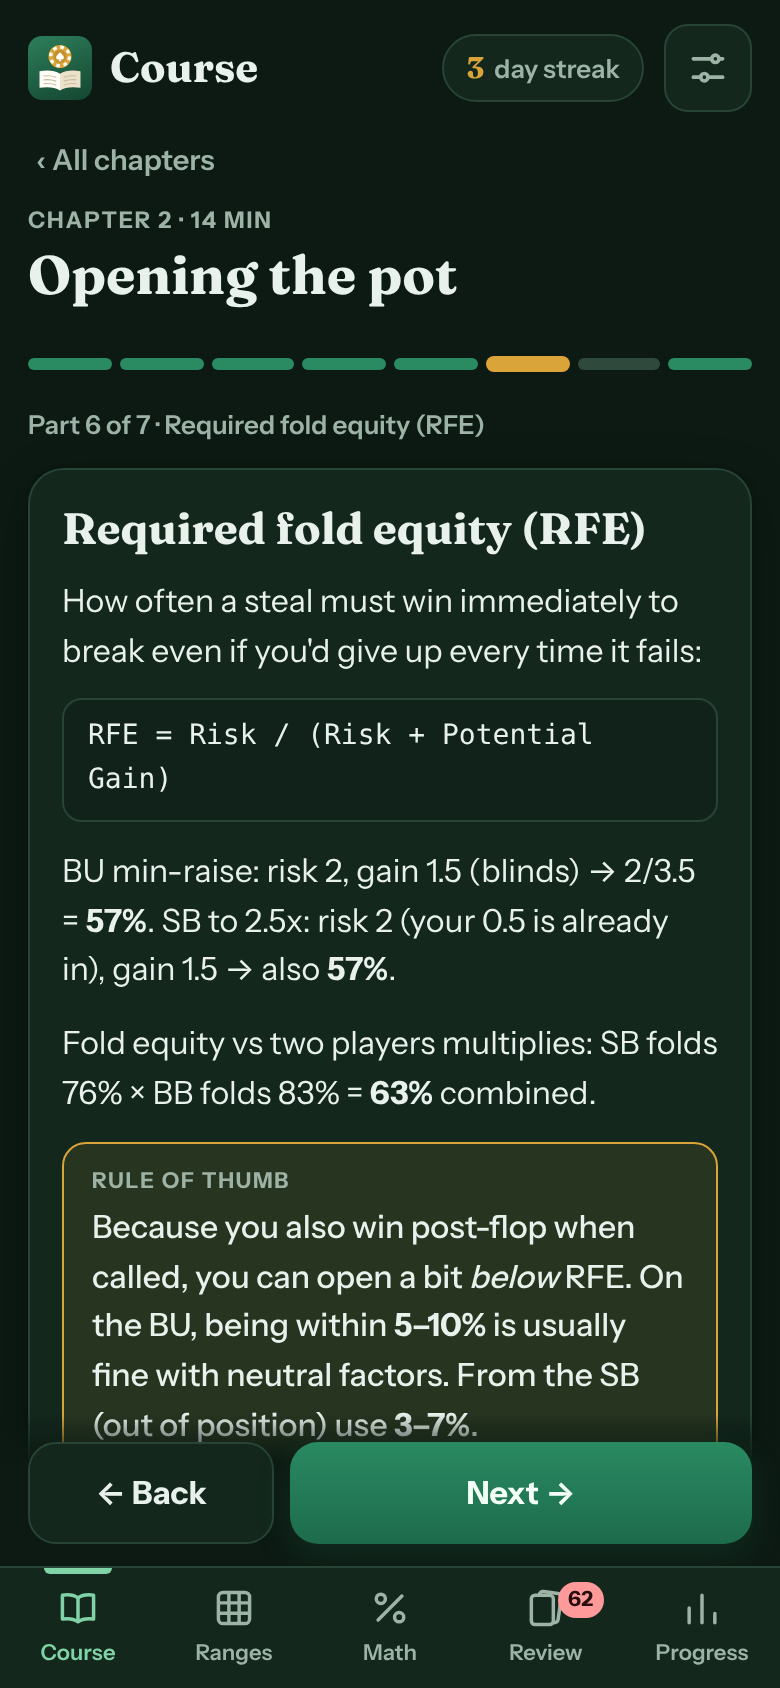
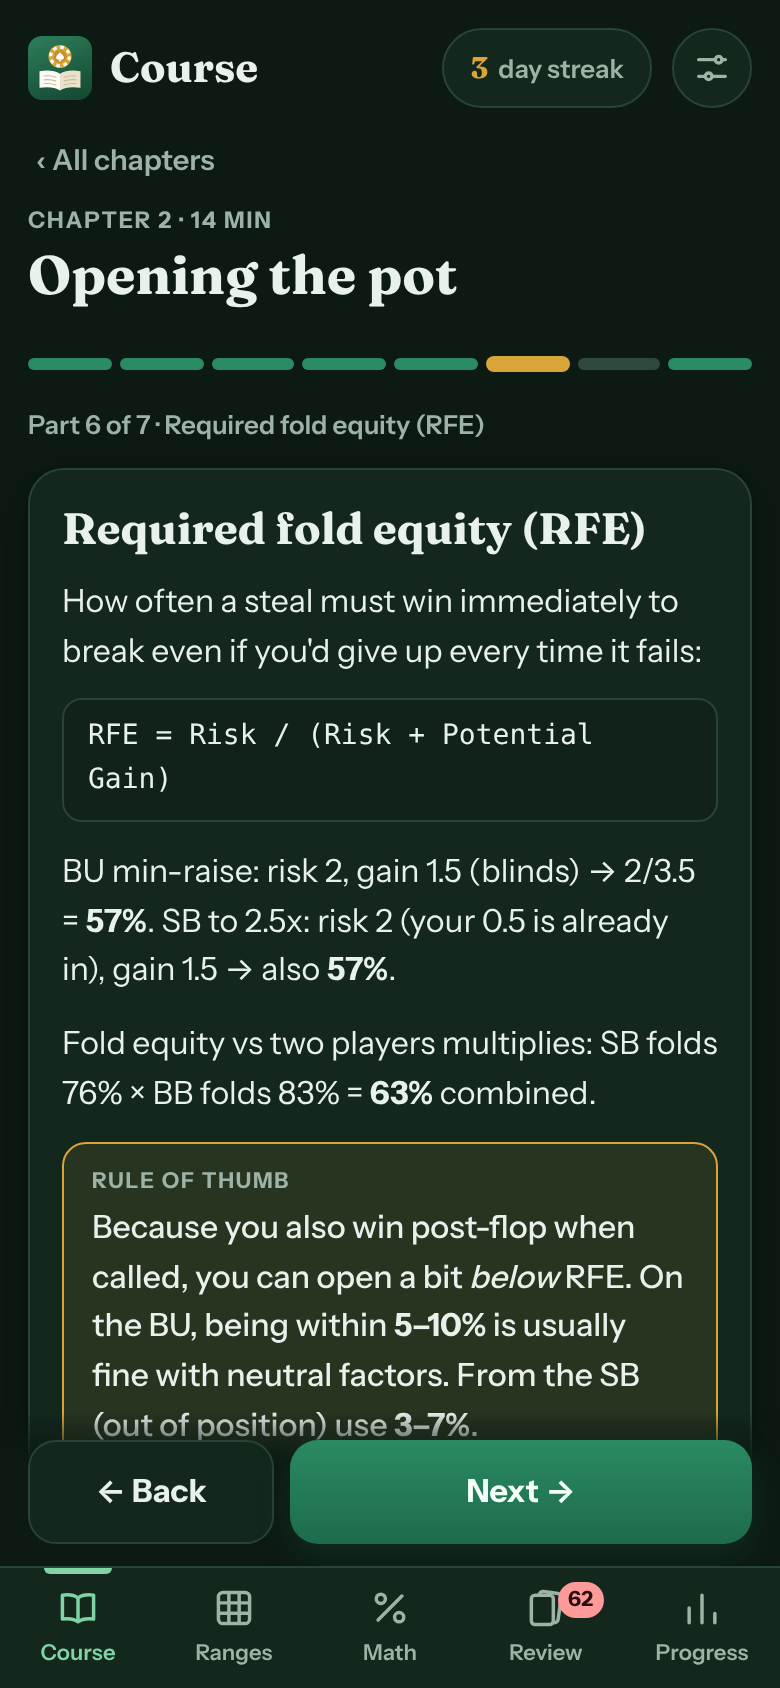
Even out button sizes (v2.0.1)
Two sizes everywhere: 52px for main actions, 44px for secondary ones
(was seven heights between 36 and 60). Call/Fold labels are centred with
the key number pinned left, the header pill and settings button match,
settings and tool buttons share one width, the home page has four equal
tiles instead of three tiles over two odd buttons, and on a wide screen
the action buttons keep the phone proportions.

Claude-Session: https://claude.ai/code/session_01WSPbWCX6AwDLBdZwwdxWUU

diff --git a/index.html b/index.html
@@ -75,10 +75,12 @@ button{font:inherit;color:inherit;cursor:pointer}
 .brand{display:flex;align-items:center;gap:9px;flex:1;min-width:0;text-decoration:none;color:inherit}
 .logo{flex:none;width:32px;height:32px;display:block}
 .top h1{font-size:21px;white-space:nowrap;overflow:hidden;text-overflow:ellipsis;min-width:0}
-.pill{display:inline-flex;align-items:center;gap:5px;font-size:13px;font-weight:600;color:var(--muted);background:var(--surface);border:1px solid var(--line);border-radius:999px;padding:4px 11px;white-space:nowrap;text-decoration:none}
+.pill{display:inline-flex;align-items:center;gap:5px;min-height:40px;font-size:13px;font-weight:600;color:var(--muted);background:var(--surface);border:1px solid var(--line);border-radius:999px;padding:0 13px;white-space:nowrap;text-decoration:none}
 .pill b{font-family:var(--serif);font-size:15px;color:var(--ink)}
 .pill.hot b{color:var(--gold)}
-.iconbtn{flex:none;width:44px;height:44px;display:grid;place-items:center;border-radius:12px;border:1px solid var(--line);background:var(--surface);color:var(--muted)}
+.iconbtn{flex:none;position:relative;width:40px;height:40px;display:grid;place-items:center;border-radius:999px;border:1px solid var(--line);background:var(--surface);color:var(--muted)}
+.iconbtn::after{content:"";position:absolute;inset:-2px}
+.iconbtn svg{width:20px;height:20px}
 .iconbtn[aria-current="page"]{background:var(--felt);border-color:var(--felt);color:var(--felt-ink)}
 
 /* Bottom navigation (phone), left rail (wide screen) */
@@ -98,14 +100,13 @@ button{font:inherit;color:inherit;cursor:pointer}
 .sec span{text-transform:none;letter-spacing:0;font-weight:500}
 .box{background:var(--surface);border:1px solid var(--line);border-radius:18px;padding:16px;box-shadow:var(--shadow)}
 .eyebrow{font-size:11.5px;font-weight:700;letter-spacing:.08em;text-transform:uppercase;color:var(--muted)}
-.btn{display:inline-flex;align-items:center;justify-content:center;gap:8px;font-weight:700;font-size:16px;padding:12px 18px;min-height:50px;border-radius:14px;border:0;
+.btn{display:inline-flex;align-items:center;justify-content:center;gap:8px;font-weight:700;font-size:16px;line-height:1.2;padding:0 20px;min-height:52px;border-radius:14px;border:0;
   background:linear-gradient(180deg,var(--felt-2),var(--felt));color:var(--felt-ink);box-shadow:0 6px 16px rgba(31,96,69,.25);text-decoration:none}
 .btn.alt{background:var(--surface);color:var(--ink);border:1.5px solid var(--line);box-shadow:none}
 .btn.gold{background:var(--gold);color:var(--gold-ink);box-shadow:0 6px 16px rgba(217,165,58,.25)}
 .btn.wide{width:100%}
-.btn.sm{min-height:44px;font-size:14.5px;padding:8px 14px;border-radius:12px}
+.btn.sm{min-height:44px;min-width:96px;font-size:14.5px;font-weight:600;padding:0 16px;border-radius:12px}
 .btn:disabled{opacity:.45;cursor:default;box-shadow:none}
-.btn kbd,.opt kbd{font-family:var(--sans);font-size:11px;font-weight:700;opacity:.7;border:1px solid currentColor;border-radius:5px;padding:0 5px;line-height:16px}
 .row{display:flex;gap:10px;flex-wrap:wrap;align-items:center}
 .row>.btn{flex:1}
 .bar{height:8px;background:var(--track);border-radius:8px;overflow:hidden}
@@ -120,12 +121,12 @@ button{font:inherit;color:inherit;cursor:pointer}
 .actions .btn.alt{flex:0 0 34%}
 
 /* Segmented controls and chip rows */
-.seg{display:flex;gap:4px;background:var(--surface);border:1px solid var(--line);padding:4px;border-radius:14px}
-.seg button{flex:1;min-height:40px;border:0;background:none;border-radius:10px;font-size:14px;font-weight:600;color:var(--muted);padding:0 8px;white-space:nowrap}
+.seg{display:flex;gap:4px;background:var(--surface);border:1px solid var(--line);padding:3px;border-radius:999px}
+.seg button{flex:1;min-height:38px;border:0;background:none;border-radius:999px;font-size:14px;font-weight:600;color:var(--muted);padding:0 8px;white-space:nowrap}
 .seg button[aria-pressed="true"]{background:var(--felt);color:var(--felt-ink);box-shadow:0 1px 3px rgba(0,0,0,.15)}
 .chips{display:flex;gap:6px;overflow-x:auto;flex-wrap:nowrap;padding:8px 2px 4px;margin:0 -14px;padding-left:14px;padding-right:14px;scrollbar-width:none;scroll-snap-type:x proximity;scroll-padding-inline:14px}
 .chips::-webkit-scrollbar{display:none}
-.chip{flex:none;min-height:40px;padding:0 14px;border-radius:999px;border:1.5px solid var(--line);background:var(--surface);color:var(--ink);font-size:14px;font-weight:500;white-space:nowrap;scroll-snap-align:start}
+.chip{flex:none;min-height:44px;padding:0 16px;border-radius:999px;border:1.5px solid var(--line);background:var(--surface);color:var(--ink);font-size:14px;font-weight:500;white-space:nowrap;scroll-snap-align:start}
 .chip[aria-pressed="true"]{background:var(--felt);border-color:var(--felt);color:var(--felt-ink);font-weight:600}
 .chip small{opacity:.7;margin-left:4px}
 
@@ -140,8 +141,8 @@ button{font:inherit;color:inherit;cursor:pointer}
 .welcome .bar{background:rgba(0,0,0,.25);margin:14px 0 6px} .welcome .bar i{background:var(--gold)}
 .welcome .meta{display:flex;justify-content:space-between;font-size:13px;color:rgba(238,248,242,.8)}
 .welcome .btn{margin-top:14px;background:var(--card);color:#12241b;box-shadow:0 6px 16px rgba(0,0,0,.25)}
-.tiles{display:grid;grid-template-columns:repeat(3,1fr);gap:8px;margin-top:10px}
-.tile{display:flex;flex-direction:column;align-items:flex-start;gap:2px;text-align:left;padding:12px;min-height:84px;border-radius:16px;background:var(--surface);border:1px solid var(--line);color:var(--ink);text-decoration:none}
+.tiles{display:grid;grid-template-columns:1fr 1fr;gap:8px;margin-top:10px}
+.tile{display:flex;flex-direction:column;align-items:flex-start;gap:2px;text-align:left;padding:12px;min-height:80px;border-radius:16px;background:var(--surface);border:1px solid var(--line);color:var(--ink);text-decoration:none}
 .tile b{font-family:var(--serif);font-size:24px;line-height:1.1;font-variant-numeric:tabular-nums}
 .tile span{font-size:12.5px;color:var(--muted);line-height:1.25}
 .tile.alert b{color:var(--bad)}
@@ -205,7 +206,7 @@ select,input[type=number]{background:var(--surface);border:1.5px solid var(--lin
 .verdict.good{background:var(--good-bg);color:var(--good);border-color:var(--good)} .verdict.bad{background:var(--bad-bg);color:var(--bad);border-color:var(--bad)} .verdict.warn{background:var(--warn-bg);color:var(--warn);border-color:var(--warn)}
 .flow{display:flex;flex-direction:column;gap:10px}
 .flow .q{font-weight:600}
-.tool .btn{min-height:44px;font-size:15px;padding:8px 16px;background:var(--surface);color:var(--ink);border:1.5px solid var(--line);box-shadow:none}
+.tool .btn{min-height:44px;min-width:96px;font-size:14.5px;font-weight:600;padding:0 16px;border-radius:12px;background:var(--surface);color:var(--ink);border:1.5px solid var(--line);box-shadow:none}
 
 /* Quiz and drill questions */
 .qcard{margin-top:12px}
@@ -277,7 +278,8 @@ select,input[type=number]{background:var(--surface);border:1.5px solid var(--lin
 .badge{font-family:var(--serif);font-weight:700;font-size:16px;color:var(--gold);border:1.5px solid rgba(217,165,58,.6);border-radius:8px;padding:1px 8px;margin-left:4px}
 .sinfo{text-align:center;font-size:14.5px;color:var(--muted);margin-top:10px;line-height:1.4}
 .acts{display:grid;grid-template-columns:1fr 1fr;gap:8px;margin-top:12px}
-.acts .opt{justify-content:center;font-weight:700;font-size:17px;min-height:56px}
+.acts .opt{position:relative;justify-content:center;font-weight:700;font-size:17px;min-height:52px;padding:0 44px}
+.acts .opt .k{position:absolute;left:12px;top:50%;margin-top:-13px}
 .acts .opt.go{background:linear-gradient(180deg,var(--felt-2),var(--felt));border-color:var(--felt);color:var(--felt-ink)}
 .acts .opt.go .k{background:transparent;border-color:rgba(255,255,255,.5);color:var(--felt-ink)}
 .acts .opt.go.wrong{background:var(--bad-bg);border-color:var(--bad);color:var(--bad)}
@@ -298,7 +300,7 @@ select,input[type=number]{background:var(--surface);border:1.5px solid var(--lin
 .chartbox{margin-top:12px}
 .chartbox .ch{display:flex;align-items:center;justify-content:space-between;gap:8px;margin-bottom:10px}
 .chartbox .ch b{font-family:var(--serif);font-size:17px}
-.peek{min-height:44px;padding:0 12px;border-radius:12px;border:1.5px solid var(--line);background:var(--surface-2);color:var(--ink);font-size:14px;font-weight:600}
+.peek{min-height:44px;min-width:96px;padding:0 16px;border-radius:12px;border:1.5px solid var(--line);background:var(--surface-2);color:var(--ink);font-size:14px;font-weight:600}
 .hidden-chart{padding:30px 10px;text-align:center;color:var(--muted);font-size:14px;border:1.5px dashed var(--line);border-radius:12px}
 .note{font-size:13.5px;color:var(--muted);margin-top:10px;line-height:1.45}
 
@@ -320,7 +322,7 @@ select,input[type=number]{background:var(--surface);border:1.5px solid var(--lin
 .face.back .eyebrow{color:#53665b}
 .face.back p{font-size:17px;line-height:1.5;max-width:46ch}
 .grades{display:grid;grid-template-columns:repeat(4,1fr);gap:6px;margin-top:12px}
-.grades button{min-height:60px;border-radius:14px;border:1.5px solid var(--line);background:var(--surface);color:var(--ink);font-weight:700;font-size:15px;display:flex;flex-direction:column;align-items:center;justify-content:center;line-height:1.2}
+.grades button{min-height:52px;border-radius:14px;border:1.5px solid var(--line);background:var(--surface);color:var(--ink);font-weight:700;font-size:15px;display:flex;flex-direction:column;align-items:center;justify-content:center;line-height:1.2}
 .grades button small{font-weight:500;font-size:12px;color:var(--muted)}
 .grades button.g0{border-color:var(--bad);color:var(--bad)}
 .grades button.g2{background:linear-gradient(180deg,var(--felt-2),var(--felt));border-color:var(--felt);color:var(--felt-ink)} .grades button.g2 small{color:rgba(255,255,255,.75)}
@@ -356,7 +358,7 @@ select,input[type=number]{background:var(--surface);border:1.5px solid var(--lin
 .srow b{display:block;font-weight:600;font-size:15px}
 .srow small{display:block;font-size:13px;color:var(--muted);line-height:1.35}
 .srow .seg{flex:none}
-.srow .seg button{min-height:36px;font-size:13px;padding:0 10px}
+.srow .seg button{min-height:38px;font-size:13px;padding:0 12px}
 .danger{color:var(--bad)!important;border-color:var(--bad)!important}
 .ver{font-size:13px;color:var(--muted);margin-top:18px;text-align:center;line-height:1.6}
 
@@ -385,8 +387,6 @@ select,input[type=number]{background:var(--surface);border:1.5px solid var(--lin
   .nav button[aria-current="page"]::before{top:24%;bottom:24%;left:0;right:auto;width:3px;height:auto;border-radius:0 3px 3px 0}
   .due{position:static;margin-left:auto}
   .actions{position:static;margin:16px 0 0;padding:0;background:none}
-  .actions .btn{flex:0 1 auto;min-width:180px}
-  .actions .btn.alt{flex:0 0 auto}
   .home-grid{display:grid;grid-template-columns:minmax(0,1.25fr) minmax(0,1fr);gap:18px;align-items:start}
   .home-grid .tiles{margin-top:0}
   .chapters{display:grid;grid-template-columns:1fr 1fr;column-gap:10px}
@@ -870,7 +870,7 @@ const MATH={
     '6':'Choose 2 suits from 4.','4':'One per suit.','12':'16 total minus 4 suited.','16':'4 × 4.','3':'Choose 2 of the 3 remaining.','1':'Only one combination of the last two cards.','9':'3 remaining of one rank × 3 of the other.','1326':'52 × 51 / 2.','0':'You hold the card they would need.'}[c[1]]+(c[0].includes('AK combos')&&c[1]==='12'?' 3 aces × 4 kings.':'')};}},
 };
 /* ===================== UI (everything below needs a browser) ===================== */
-var BUILD={v:"2.0.0",at:"2026-11-19T10:15Z"};
+var BUILD={v:"2.0.1",at:"2026-11-19T10:21Z"};
 const $=(s,r=document)=>r.querySelector(s);
 const $$=(s,r=document)=>[...r.querySelectorAll(s)];
 
@@ -937,7 +937,7 @@ function lessonDone(id){return !!S.lessons[id];}
 function drillAcc(){let c=0,n=0;Object.values(S.drills).forEach(x=>{c+=x.c;n+=x.n;});return {c,n};}
 function renderHome(){
   const done=LESSONS.filter(l=>lessonDone(l.id)).length,next=LESSONS.find(l=>!lessonDone(l.id)),nl=next||LESSONS[0];
-  const due=dueCards().length,fresh=!Object.keys(S.cards).length,acc=drillAcc(),streak=studyStreak();
+  const mAcc=Object.values(S.math).reduce((a,x)=>({c:a.c+x.c,n:a.n+x.n}),{c:0,n:0}),due=dueCards().length,fresh=!Object.keys(S.cards).length,acc=drillAcc(),streak=studyStreak();
   $('#v-home').innerHTML=`<div class="home-grid">
     <div class="welcome">
       <div class="eyebrow">${next?(done?'Up next':'Start here'):'Course complete'}</div>
@@ -951,9 +951,9 @@ function renderHome(){
       <div class="tiles">
         <a class="tile${due&&!fresh?' alert':''}" href="#review"><b>${due}</b><span>${fresh?'new flashcards':(due===1?'card':'cards')+' due today'}</span></a>
         <a class="tile" href="#ranges"><b>${acc.n?pct(acc.c/acc.n):'–'}</b><span>range accuracy</span></a>
+        <a class="tile" href="#math"><b>${mAcc.n?pct(mAcc.c/mAcc.n):'–'}</b><span>math accuracy</span></a>
         <a class="tile" href="#progress"><b>${streak}</b><span>day streak</span></a>
       </div>
-      <div class="row" style="margin-top:10px"><a class="btn alt sm" href="#ranges">Range trainer</a><a class="btn alt sm" href="#math">Math drills</a></div>
     </div>
   </div>
   <div class="sec">Chapters<span>Read in order: later chapters build on earlier ones</span></div>

diff --git a/sw.js b/sw.js
@@ -1,4 +1,4 @@
-const CACHE = "grinders-manual-2.0.0";
+const CACHE = "grinders-manual-2.0.1";
 const FILES = ["./", "index.html", "manifest.webmanifest", "icon.svg", "icon-192.png", "icon-512.png", "icon-maskable-512.png", "apple-touch-icon.png",
   "fonts/fraunces-latin-500-normal.woff2", "fonts/fraunces-latin-700-normal.woff2", "fonts/instrument-sans-latin-400-normal.woff2",
   "fonts/instrument-sans-latin-500-normal.woff2", "fonts/instrument-sans-latin-600-normal.woff2", "fonts/instrument-sans-latin-700-normal.woff2"];
